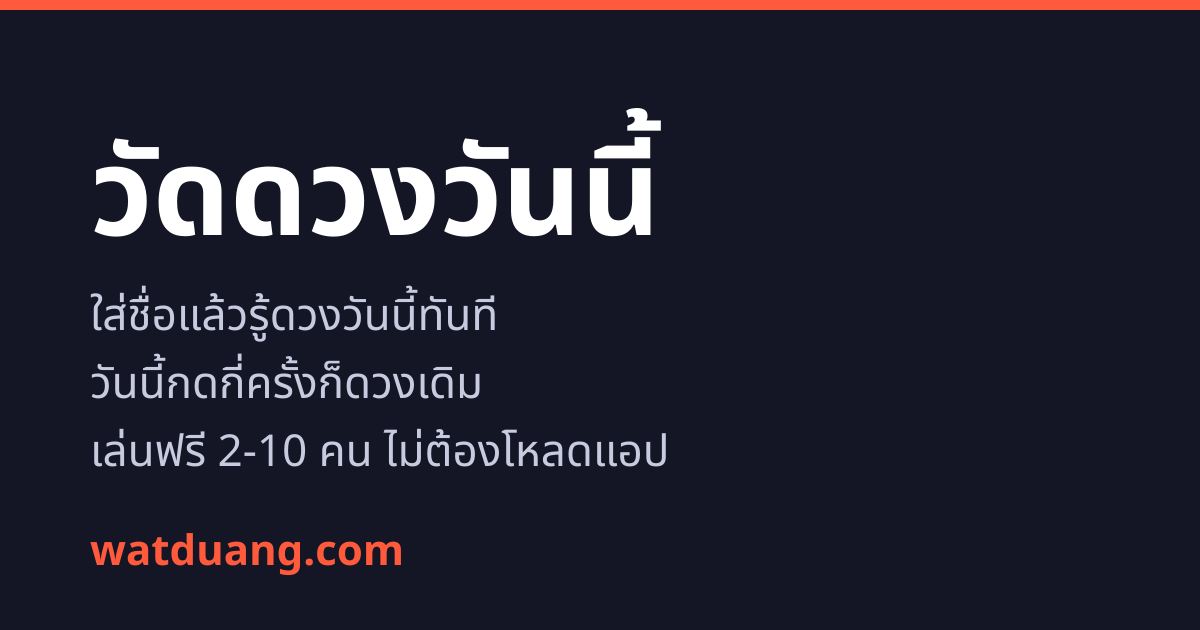
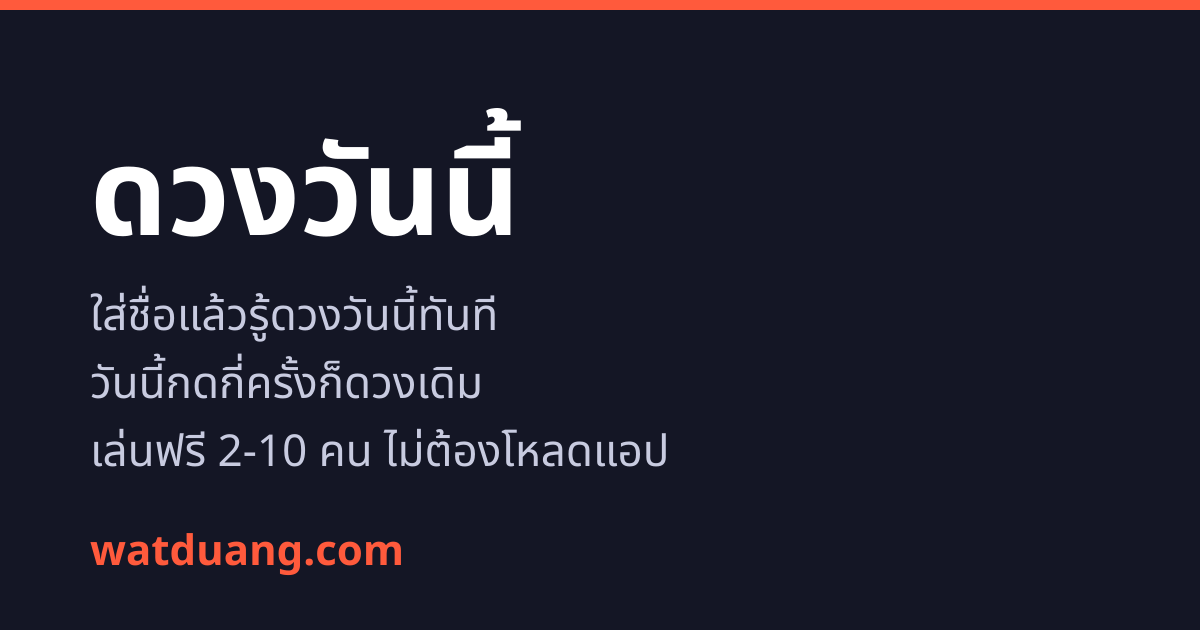
content(gh#73): rename the daily fortune game to ดวงวันนี้
names.th and seo.title drop the brand prefix. The URL is keyed on the id, not the name, so
/game/daily-fortune/ is unchanged and nothing needs a redirect.

The keywords array already led with ดวงวันนี้ before this change -- the head term was known when the
game was written, and the name simply now matches it. วัดดวงวันนี้ stays IN that array on purpose: it
is still a term people type, it just is not the game's name any more.

The share card carries the name, so it was regenerated and looked at, per the runbook rule that a clean
run is not evidence for OG output on this machine. Thai vowels and tone marks compose correctly and no
dotted-circle placeholder appears.

Verified: npm run build clean (prebuild validate-games passes) · the built page title and H1 carry the
new name · the only surviving occurrence of the old name in dist is the deliberate keywords entry ·
all 7 locally-runnable CI gates green with dist present · npm test 188/188.

Changed region(s): [[0.0617, 0.1508, 0.555, 0.3921]]

diff --git a/src/games/daily-fortune.ts b/src/games/daily-fortune.ts
@@ -273,13 +273,13 @@ function teardown(): void {
 
 const game: GameModule = {
   id: 'daily-fortune',
-  names: { th: 'วัดดวงวันนี้', en: 'Daily Fortune' },
+  names: { th: 'ดวงวันนี้', en: 'Daily Fortune' },
   category: 'fortune',
   players: [2, 10],
   keywords: ['ดวงวันนี้', 'วัดดวงวันนี้', 'ดูดวงรายวัน', 'คำทำนายวันนี้', 'เกมส่งมือถือ', 'เกมเล่นบนเครื่องเดียว'],
   tagline: 'ใส่ชื่อแล้วรู้ดวงวันนี้ทันที วันนี้กดกี่ครั้งก็ดวงเดิม',
   seo: {
-    title: 'วัดดวงวันนี้ — ใส่ชื่อดูคำทำนายประจำวัน เล่นฟรีบนเครื่องเดียว',
+    title: 'ดวงวันนี้ — ใส่ชื่อดูคำทำนายประจำวัน เล่นฟรีบนเครื่องเดียว',
     description:
       'ส่งมือถือวนให้ทุกคนพิมพ์ชื่อตัวเอง แล้วดูคำทำนายดวงวันนี้ของแต่ละคน ชื่อเดิมในวันเดิมได้คำทำนายเดิมเสมอ พรุ่งนี้ค่อยเปลี่ยนใหม่ เล่นได้ 2-10 คน ไม่ต้องโหลดแอป ไม่ต้องสมัคร',
     steps: [
